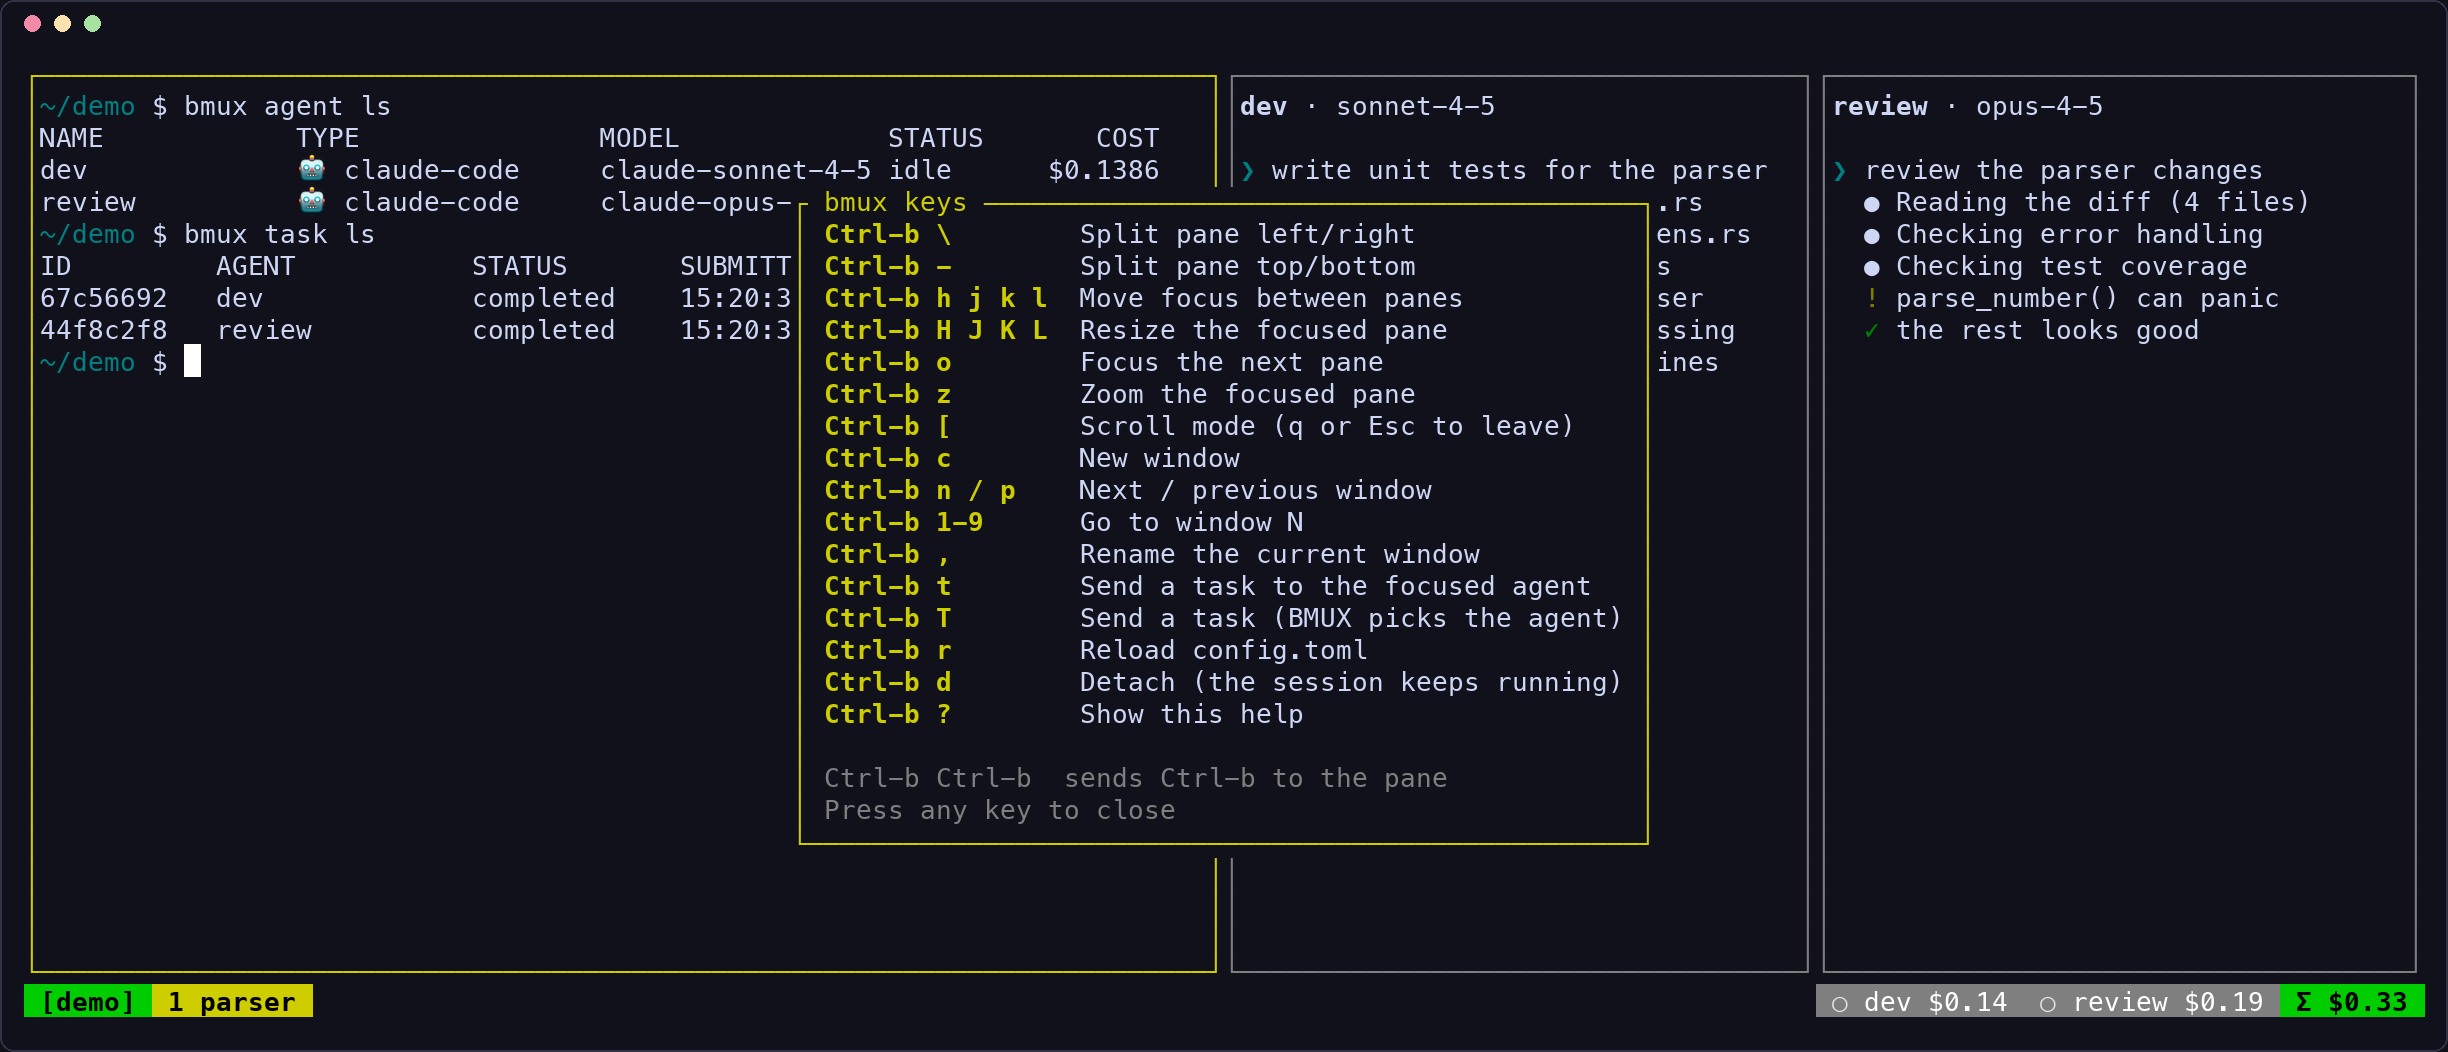
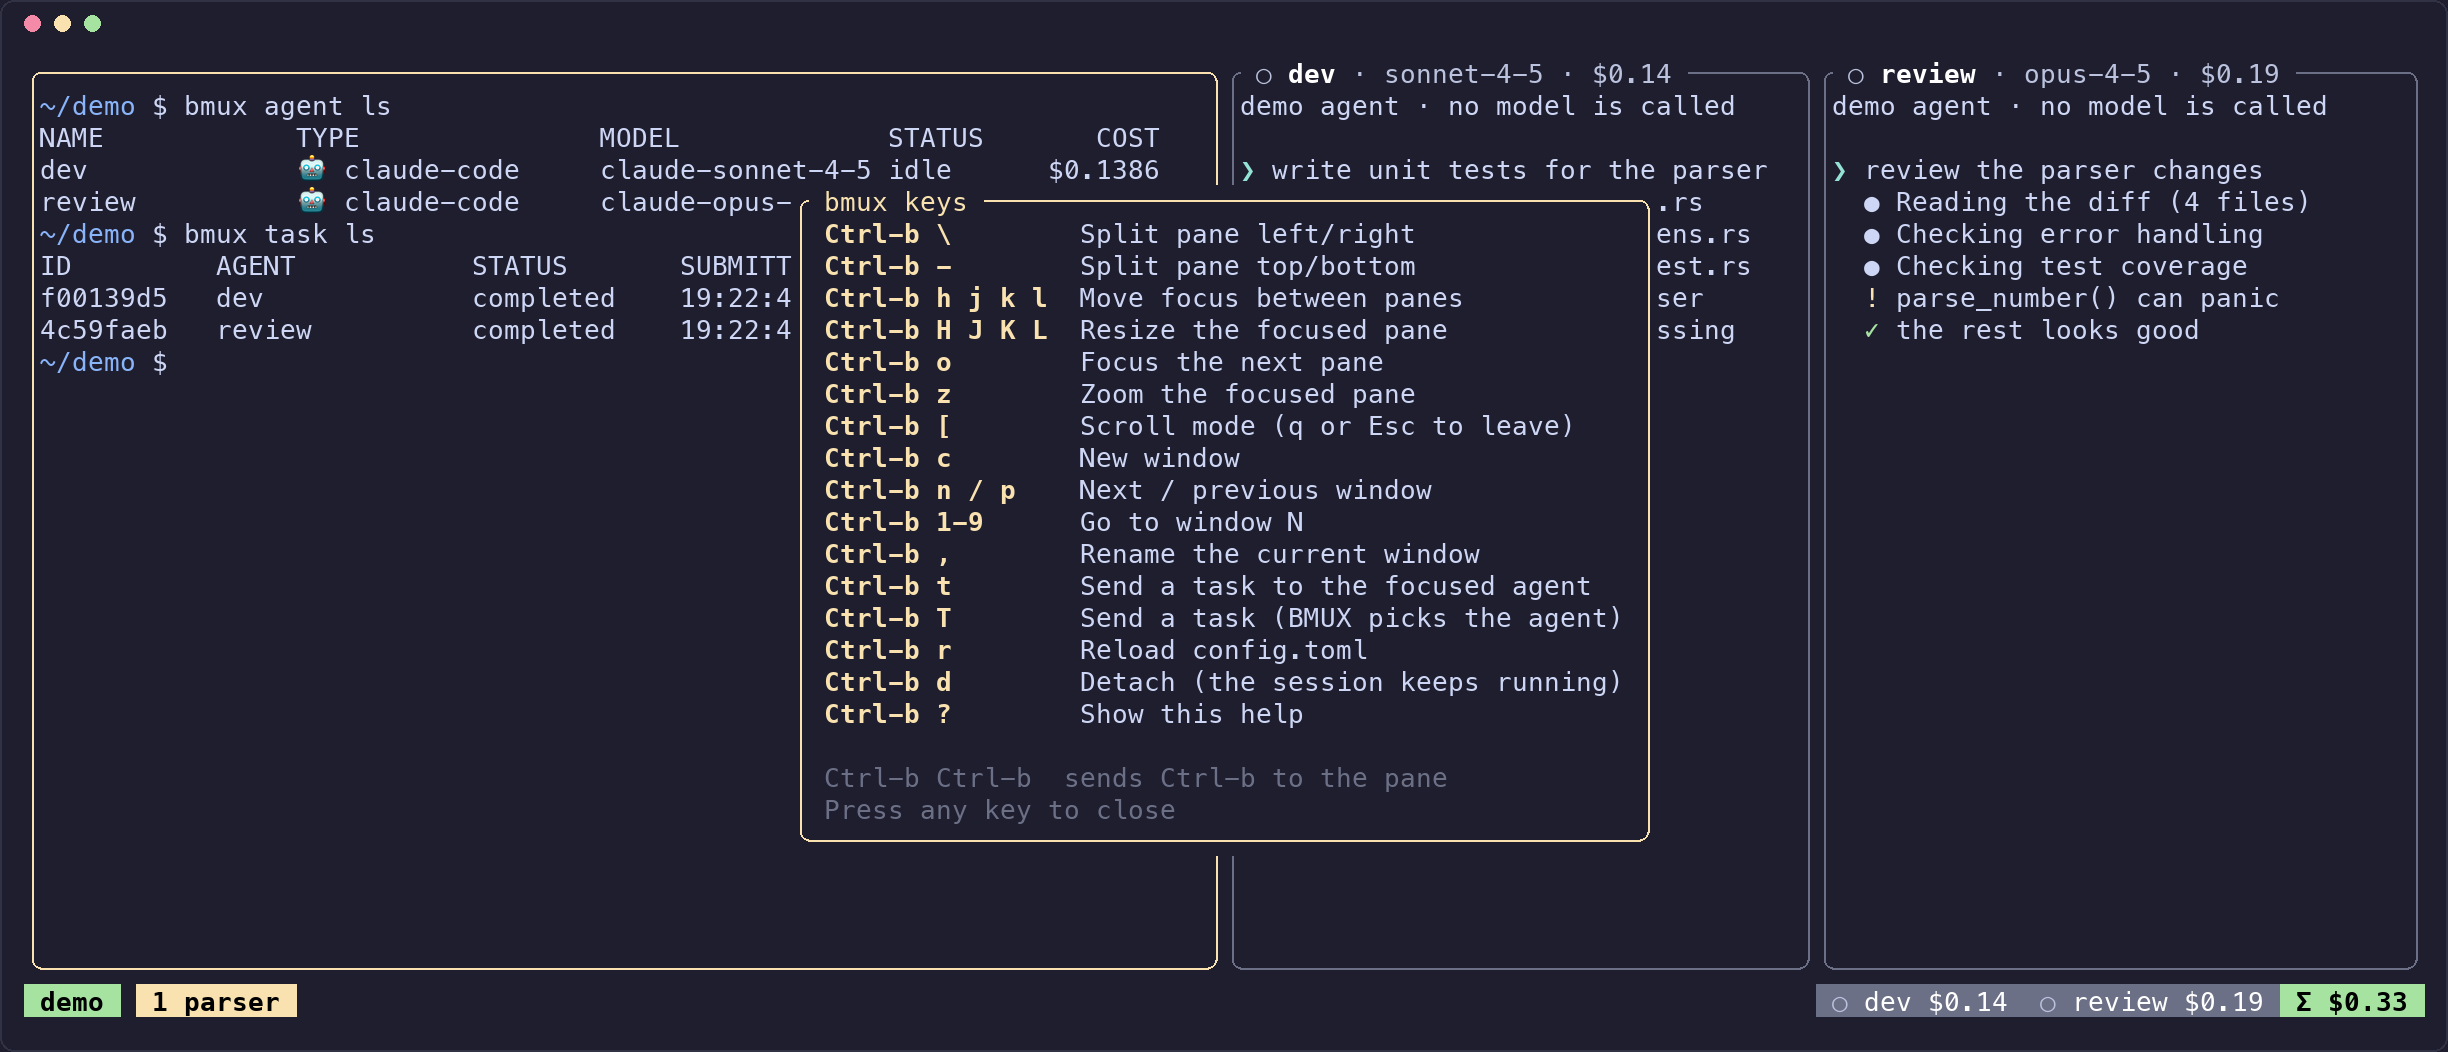
docs: refresh screenshots and TUI notes for pane titles and the shared status bar

diff --git a/README.md b/README.md
@@ -91,7 +91,7 @@ Inside a session, commands find the session from `BMUX_SESSION`. Outside a sessi
 
 ## Key bindings
 
-The prefix is `Ctrl-b`. You can change it with `[tui] prefix_key`. Press `Ctrl-b ?` in a session to show this list.
+The prefix is `Ctrl-b`. You can change it with `[tui] prefix_key`. After you press the prefix, the status bar shows `PREFIX` until the next key. Press `Ctrl-b ?` in a session to show this list.
 
 ![The key bindings overlay](docs/images/bmux-keys.png)
 
@@ -148,11 +148,11 @@ Built-in agent types:
 | `gemini` | `gemini` |
 | `shell` | your shell |
 
-You can add other CLIs as custom types in `config.toml`. Each agent runs in its own pane with a minimal environment. The pane title shows the agent name and model.
+You can add other CLIs as custom types in `config.toml`. Each agent runs in its own pane with a minimal environment. The pane border shows the agent's status, name, model and cost, for example `● dev · sonnet-4-5 · $0.14`.
 
 **How cost tracking works.** BMUX starts Claude Code with a known `--session-id` and follows the transcript at `~/.claude/projects/<project>/<session-id>.jsonl` (it also checks `$CLAUDE_CONFIG_DIR/projects`). Each assistant message in the transcript has a `usage` block. BMUX adds up input, output and prompt-cache tokens and prices them with the list price of the model family (Opus, Sonnet or Haiku). If BMUX does not know a model, it uses the agent's `cost_per_1k_tokens`.
 
-The status bar shows one badge per agent: `●` working, `○` idle, `◐` waiting, `✗` error. Each badge shows the agent's cost, and `Σ` shows the session total. Agents without cost tracking show `—`. The same transcript tells BMUX when Claude Code finishes a turn, so the task becomes `completed` and the next queued task for that agent starts.
+The status bar shows one badge per agent: `●` working, `○` idle, `◐` waiting, `✗` error. Each badge shows the agent's cost, and `Σ` shows the session total. Agents without cost tracking show no cost. The same transcript tells BMUX when Claude Code finishes a turn, so the task becomes `completed` and the next queued task for that agent starts.
 
 ## Tasks
 

diff --git a/docs/adr/005-tui-zoom-scroll-reload.md b/docs/adr/005-tui-zoom-scroll-reload.md
@@ -12,7 +12,7 @@ Stories 1.6–1.8 defined pane zoom (`Ctrl-b z`), scroll/copy mode (`Ctrl-b [`),
 1. **Zoom** — `ZoomState` lives on `Window`; `Session::toggle_zoom` delegates; snapshots expose `zoomed: bool` and render only the zoomed pane.
 2. **Scroll** — `ScrollState` on `Pane` (line-buffered history); `enter_scroll_mode` / `handle_scroll_input` consume `k`/`j`/`q`/ESC before PTY; snapshots expose `scroll_active`.
 3. **Reload** — `BmuxConfig::hot_reload` updates daemon `StdMutex<BmuxConfig>`; `Session::status_flash` carries transient messages; snapshots expose `status_message`.
-4. **Status bar** — `StatusBar` widget (local mode) and `client::build_status_bar` (daemon mode) show `[ZOOM]`, scroll indicator, and config messages.
+4. **Status bar** — `StatusBar` widget (local mode) and `client::build_status_bar` (daemon mode) show `[ZOOM]`, scroll indicator, and config messages. *Update:* `client::build_status_bar` was later removed; both modes now draw the `StatusBar` widget, and the daemon client builds its state from the snapshot (`client::status_bar_state`).
 
 ## Consequences
 

diff --git a/docs/architecture.md b/docs/architecture.md
@@ -46,7 +46,7 @@ BMUX is a terminal multiplexer that orchestrates multiple AI agent CLIs in share
 
 | Module | Role |
 |--------|------|
-| `tui/` | Daemon, panes, protocol, client (zoom/scroll/reload via snapshots) |
+| `tui/` | Daemon, panes, protocol, client (zoom/scroll/reload via snapshots); `chrome.rs` draws pane cells, borders and agent titles for both modes |
 | `agents/` | Adapters, registry, runtime, catalog |
 | `orchestration/` | MessageBus, TaskRouter |
 | `storage/` | Context, sessions, audit log |
